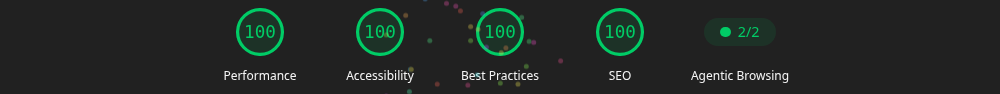
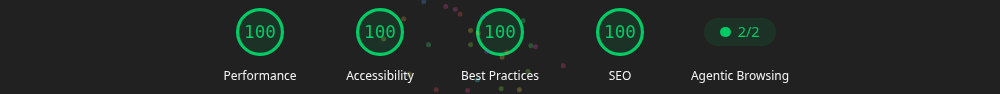
docs: update README for the field size and state colors
Also refreshes the Lighthouse captures.

diff --git a/README.md b/README.md
@@ -105,21 +105,21 @@ six-line helper instead of a library. Dev dependencies: Prettier, Vitest and Tes
 
 ## Design ambiguities and the choices made
 
-| In the Figma file                                                                                                      | Choice                                                                                                                          |
-| ---------------------------------------------------------------------------------------------------------------------- | ------------------------------------------------------------------------------------------------------------------------------- |
-| The mobile contact form is in Portuguese, the rest of the page in English                                              | English copy from the desktop frame everywhere                                                                                  |
-| Desktop shows "Step 01" on all three steps; mobile shows 01, 02, 03                                                    | 01, 02, 03                                                                                                                      |
-| Step 2 description differs between frames ("who use" / "who actually use")                                             | Desktop copy                                                                                                                    |
-| No designs for hover, focus, the open menu or form error/success                                                       | Designed with the existing palette. One color was added for errors (`danger`), since no palette color is readable as error text |
-| Menu content on mobile is not shown                                                                                    | Same links as the desktop header, plus "Log in" and "Start learning"                                                            |
-| No tablet frame                                                                                                        | Described in "Responsive strategy" above                                                                                        |
-| On mobile the hero photo comes before the heading                                                                      | Same visual order, but the heading stays first in the DOM                                                                       |
-| The featured course and footer containers are 1136px wide, 16px past the 1120px content area                           | Aligned to the 1120px grid used by the other sections                                                                           |
-| Buttons are 52, 52.5 or 54px tall depending on the instance                                                            | 52px everywhere                                                                                                                 |
-| `text-tertiary` (#6D7384) on the cream background is 4.45:1; #E7E7EC on the blue background is 4.46:1 (AA needs 4.5:1) | Tertiary text is one step darker (#6B7182); text on the blue section is white                                                   |
-| Form fields use 14px text                                                                                              | 16px below 768px, because iOS Safari zooms the page when a focused field has a smaller font; 14px from 768px up                 |
-| Decorative shapes of the final CTA exist only in the desktop frame                                                     | Shown from 1024px up                                                                                                            |
-| Links lead to pages that are not part of the test                                                                      | They point to the matching section of the page, or to `#`                                                                       |
+| In the Figma file                                                                                                      | Choice                                                                                                                                                                                                                                          |
+| ---------------------------------------------------------------------------------------------------------------------- | ----------------------------------------------------------------------------------------------------------------------------------------------------------------------------------------------------------------------------------------------- |
+| The mobile contact form is in Portuguese, the rest of the page in English                                              | English copy from the desktop frame everywhere                                                                                                                                                                                                  |
+| Desktop shows "Step 01" on all three steps; mobile shows 01, 02, 03                                                    | 01, 02, 03                                                                                                                                                                                                                                      |
+| Step 2 description differs between frames ("who use" / "who actually use")                                             | Desktop copy                                                                                                                                                                                                                                    |
+| No designs for hover, focus, the open menu or form error/success                                                       | Built from the design tokens only. Hover and error shades are a design color mixed with a little of the dark text color, so no color value outside the Figma palette is used. The "close" icon of the open menu is the one asset that was drawn |
+| Menu content on mobile is not shown                                                                                    | Same links as the desktop header, plus "Log in" and "Start learning"                                                                                                                                                                            |
+| No tablet frame                                                                                                        | Described in "Responsive strategy" above                                                                                                                                                                                                        |
+| On mobile the hero photo comes before the heading                                                                      | Same visual order, but the heading stays first in the DOM                                                                                                                                                                                       |
+| The featured course and footer containers are 1136px wide, 16px past the 1120px content area                           | Aligned to the 1120px grid used by the other sections                                                                                                                                                                                           |
+| Buttons are 52, 52.5 or 54px tall depending on the instance                                                            | 52px everywhere                                                                                                                                                                                                                                 |
+| `text-tertiary` (#6D7384) on the cream background is 4.45:1; #E7E7EC on the blue background is 4.46:1 (AA needs 4.5:1) | Tertiary text is one step darker (#6B7182); text on the blue section is white                                                                                                                                                                   |
+| Form fields use 14px text                                                                                              | 14px, as designed. iOS Safari zooms the page when a focused field has a font under 16px, so that browser alone gets 16px, through an `@supports` rule only iOS matches. Layout is unchanged (same 24px line height)                             |
+| Decorative shapes of the final CTA exist only in the desktop frame                                                     | Shown from 1024px up                                                                                                                                                                                                                            |
+| Links lead to pages that are not part of the test                                                                      | They point to the matching section of the page, or to `#`                                                                                                                                                                                       |
 
 ## Verification
 
@@ -136,7 +136,7 @@ six-line helper instead of a library. Dev dependencies: Prettier, Vitest and Tes
 
   Mobile
 
-  ![Lighthouse mobile: Performance 94, Accessibility 100, Best Practices 100, SEO 100](docs/lighthouse-mobile.png)
+  ![Lighthouse mobile: Performance 95, Accessibility 100, Best Practices 100, SEO 100](docs/lighthouse-mobile.png)
 
   Desktop
 
@@ -146,6 +146,8 @@ six-line helper instead of a library. Dev dependencies: Prettier, Vitest and Tes
 
 - No backend: the form submission is simulated, as described above.
 - Automated checks ran in Chrome only. Safari and Firefox were not covered by automation.
+- The iOS-only font size rule for form fields is in the generated CSS but was not tested on a
+  real iPhone.
 - The Lighthouse numbers are from a local server, not from a deployed URL.
 - Not pixel-perfect in the places listed in the table above (16px container overflow, button
   heights, contrast adjustments).
